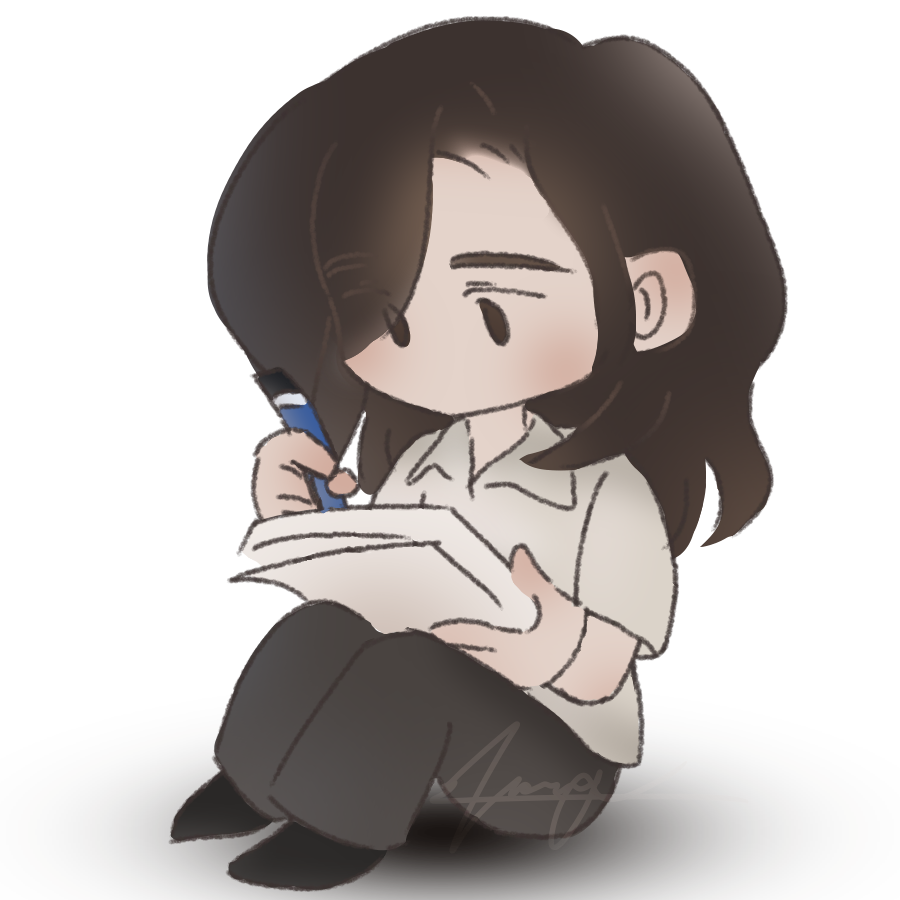
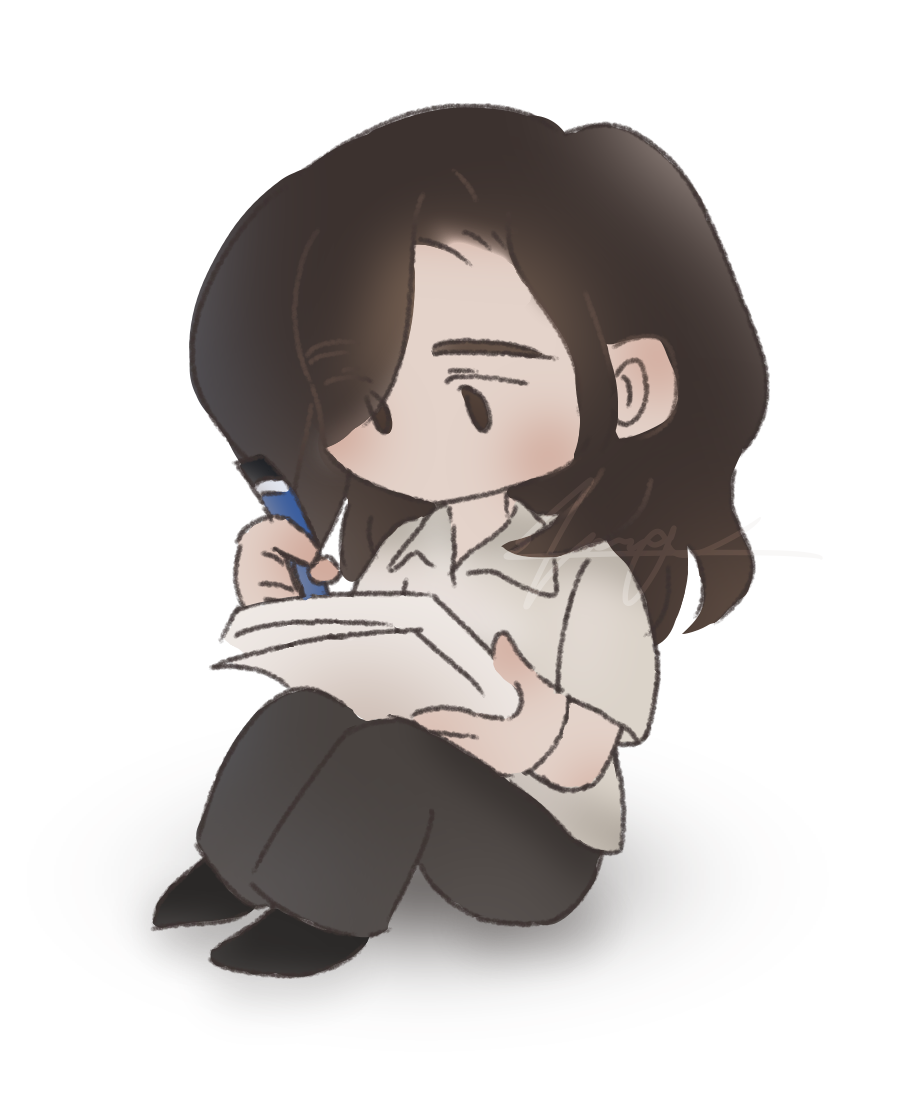
0926.26_Drawings Update

Changed region(s): [[0.1244, 0.0, 0.9022, 1.0]]

diff --git a/painting.html b/painting.html
@@ -3,7 +3,7 @@
 
 <head>
         <meta charset="UTF-8">
-        <title>默文的部落格</title>
+        <title>我的部落格</title>
         <link rel="stylesheet" href="style.css">
 </head>
 
@@ -23,8 +23,8 @@
 
         <ul class="dropdown-menu">
             <li><a href="painting.html">畫畫</a></li>
-            <li><a href="gaming.html">遊戲</a></li>
-            <li><a href="my_fiction.html">寫小說</a></li>
+            <li><a href="reading.html">閱讀專欄</a></li>
+            <li><a href="my_fiction.html">小說</a></li>
         </ul>
 
     <li><a href="diary.html">生活日誌</a></li>
@@ -32,15 +32,65 @@
     </nav>
 
     <div class="main-container">
-        <div class="text-content">
-        <h1>我有很多塗鴉!</h1>
-        <p>我非常喜歡畫畫，這裡會收錄一些被我挑選過、值得讓我留下來的作品。</p>
+        <!-- 這是你的畫廊區塊 -->
+        <div class="gallery-grid">
+            <!-- 每一張圖都加上 polaroid 類別，以及防右鍵/拖曳屬性 -->
+            <img src="pictures\sunflower_08182026.png" alt="畫作1" class="polaroid" oncontextmenu="return false;" draggable="false">
+            <img src="pictures\Your Glaze.png" alt="畫作2" class="polaroid" oncontextmenu="return false;" draggable="false">
+            <img src="pictures\Chen_2025.3.20.png" alt="畫作3" class="polaroid" oncontextmenu="return false;" draggable="false">
+            <img src="pictures\banner.png" alt="畫作4" class="polaroid" oncontextmenu="return false;" draggable="false">
+            <img src="pictures\MW12.png" alt="畫作5" class="polaroid" oncontextmenu="return false;" draggable="false">
+            <img src="pictures\ghrr.png" alt="畫作6" class="polaroid" oncontextmenu="return false;" draggable="false">
+            <img src="pictures\city of tears.png" alt="畫作7" class="polaroid" oncontextmenu="return false;" draggable="false">
+            <img src="pictures\sailor moon redraw challange 20210925.png" alt="畫作8" class="polaroid" oncontextmenu="return false;" draggable="false">
+            <img src="pictures\Practice0001.png" alt="畫作9" class="polaroid" oncontextmenu="return false;" draggable="false">
+            <img src="pictures\blue_eyes.png" alt="畫作10" class="polaroid" oncontextmenu="return false;" draggable="false">
+            <img src="pictures\blue_eyes(f)20240215.png" alt="畫作11" class="polaroid" oncontextmenu="return false;" draggable="false">
+            <img src="pictures\gura(hbd davi)01292024.png" alt="畫作12" class="polaroid" oncontextmenu="return false;" draggable="false">
+            <img src="pictures\me0003.png" alt="畫作13" class="polaroid" oncontextmenu="return false;" draggable="false">
+            <img src="pictures\jojo_Kakyoin.png" alt="畫作14" class="polaroid" oncontextmenu="return false;" draggable="false">
+            <img src="pictures\Amenor01.png" alt="畫作15" class="polaroid" oncontextmenu="return false;" draggable="false">
+            <img src="pictures\c.png" alt="畫作16" class="polaroid" oncontextmenu="return false;" draggable="false">
         </div>
     </div>
+
+    <!-- 這是點擊後才會跑出來的「放大預覽區 (Lightbox)」 -->
+    <div id="lightbox" class="lightbox">
+        <span class="close-btn">&times;</span>
+        <img id="lightbox-img" src="" alt="放大預覽" oncontextmenu="return false;" draggable="false">
+    </div>
+
+    <!-- 這一小段 JavaScript 負責控制點擊放大的魔法 -->
+    <script>
+        const lightbox = document.getElementById('lightbox');
+        const lightboxImg = document.getElementById('lightbox-img');
+        const images = document.querySelectorAll('.polaroid');
+        const closeBtn = document.querySelector('.close-btn');
+
+        // 當點擊小圖時，打開黑底背景並將放大的圖換成該小圖
+        images.forEach(img => {
+            img.addEventListener('click', function() {
+                lightbox.style.display = 'flex';
+                lightboxImg.src = this.src;
+            });
+        });
+
+        // 點擊右上角叉叉，關閉預覽
+        closeBtn.addEventListener('click', function() {
+            lightbox.style.display = 'none';
+        });
+
+        // 點擊黑色背景任何一處，也可以關閉預覽
+        lightbox.addEventListener('click', function(e) {
+            if (e.target !== lightboxImg) {
+                lightbox.style.display = 'none';
+            }
+        });
+    </script>
 </body>
 
 <footer>
-        <p>版權所有 &copy; 2026 默文</p>
+        <p>版權所有 &copy; 2026</p>
 </footer>
 
 </html>

diff --git a/style.css b/style.css
@@ -3,7 +3,7 @@
 body {
     margin: 0;
     padding: 0;
-    background-image:url(pictues\background.png); /* 放上你喜歡的背景圖 */
+    background-image:url(pictures/background.png); /* 放上你喜歡的背景圖 */
     background-size: cover; /* 讓背景圖填滿整個螢幕 */
     background-attachment: fixed; /* (選擇性) 讓背景圖固定，滑動網頁時只有中間區塊會動，很有質感！ */
     background-color: #f1efee;
@@ -30,6 +30,16 @@ h1 {
     font-family: "Noto Serif CJK TC", Arial, sans-serif;
     font-weight: bold;
   }
+
+h3 {
+  text-align: left;
+  color: #af583e;
+  font-size: 30px;
+  padding: 5px 0;
+  font-family: "Noto Serif CJK TC", Arial, sans-serif;
+  font-weight: bold;
+}
+
 
   /* 導覽列外框設定 */
 .sticky-navbar {
@@ -92,8 +102,8 @@ h1 {
 
 .dropdown-menu li a {
   display: block; /* 讓整個選項都可以點擊 */
-  color: white;
-  padding: 5px 15px;
+  color: rgb(207, 198, 198);
+  padding: 10px 15px;
   border-bottom: 1px solid #978a6e; /* 每個選項之間的間距 */
   text-decoration: none;
   font-family: "Noto Sans CJK TC", Arial, sans-serif;
@@ -215,3 +225,85 @@ h1 {
     object-fit: cover; /* 保持圖片比例，填滿容器 */
 }
 
+.under-development {
+    display: block;
+    margin: 10px auto; /* 置中圖片 */
+    max-width: 100%; /* 確保圖片不會超過容器寬度 */
+    height: auto; /* 保持圖片比例 */
+}
+
+.writing-down {
+    display: block;
+    margin: 10px auto; /* 置中圖片 */
+    max-width: 100%; /* 確保圖片不會超過容器寬度 */
+    height: auto; /* 保持圖片比例 */
+}
+
+/* =========================================
+   畫廊網格：處理一排 2~3 張的排版
+========================================= */
+.gallery-grid {
+    display: grid;
+    /* 這個魔法會自動幫你排版：螢幕大時一排 3 張，螢幕小時自動變成一排 1~2 張 */
+    grid-template-columns: repeat(auto-fit, minmax(250px, 1fr));
+    gap: 30px; /* 圖片之間的間距 */
+    padding: 20px;
+}
+
+/* =========================================
+   拍立得風格照片
+========================================= */
+.polaroid {
+    width: 100%;
+    background-color: white; /* 拍立得的白色底 */
+    padding: 10px 10px 15px 10px; /* 製造出白框效果，下方稍微寬一點更像拍立得 */
+    box-shadow: 0 4px 8px rgba(0, 0, 0, 0.2); /* 加上一點陰影看起來更立體 */
+    cursor: pointer; /* 滑鼠移過去變成手指圖案，提示可以點擊 */
+    transition: transform 0.2s; /* 微微放大的動畫時間 */
+
+    /* 避免圖片被反白選取 */
+    user-select: none;
+    -webkit-user-select: none;
+}
+
+/* 滑鼠碰到小圖時，微微放大互動感 */
+.polaroid:hover {
+    transform: scale(1.03);
+}
+
+/* =========================================
+   點擊後的放大預覽區塊 (Lightbox)
+========================================= */
+.lightbox {
+    display: none; /* 平常先隱藏起來 */
+    position: fixed; /* 固定在螢幕畫面上 */
+    z-index: 9999; /* 圖層拉到最高，蓋住所有東西 */
+    left: 0;
+    top: 0;
+    width: 100%;
+    height: 100%;
+    background-color: rgba(0, 0, 0, 0.85); /* 變暗的半透明黑底 */
+    align-items: center; /* 讓圖片垂直置中 */
+    justify-content: center; /* 讓圖片水平置中 */
+}
+
+/* 放大預覽區裡面的大圖片（一樣套用白框） */
+.lightbox img {
+    max-width: 90%;
+    max-height: 85vh; /* 確保不管多大都不會超過螢幕高度 */
+    background-color: white;
+    padding: 15px; /* 大圖的白框 */
+    box-shadow: 0 0 20px rgba(0,0,0,0.8);
+}
+
+/* 關閉按鈕 (X) */
+.close-btn {
+    position: absolute;
+    top: 20px;
+    right: 40px;
+    color: white;
+    font-size: 50px;
+    font-weight: bold;
+    cursor: pointer;
+    user-select: none;
+}

diff --git a/main.html b/main.html
@@ -3,7 +3,7 @@
 
 <head>
         <meta charset="UTF-8">
-        <title>默文的部落格</title>
+        <title>凡林的部落格</title>
         <link rel="stylesheet" href="style.css">
 </head>
 <body>
@@ -22,8 +22,8 @@
         <a href="#">喜好專欄</a>
         <ul class="dropdown-menu">
             <li><a href="painting.html">畫畫</a></li>
-            <li><a href="gaming.html">遊戲</a></li>
-            <li><a href="my_fiction.html">寫小說</a></li>
+            <li><a href="reading.html">閱讀專欄</a></li>
+            <li><a href="my_fiction.html">小說</a></li>
         </ul>
 
     <li><a href="diary.html">生活日誌</a></li>
@@ -45,16 +45,20 @@
         </div>
 
         <div class="text-content">
+
         <h1>歡迎來到我的個人網站！</h1>
-        <p>嗨！我是默文!會有這個部落格生出來的原因，<br>
-            是因為我想創建一個個人的部落格，整理我對很多事情的想法跟紀錄。</p>
-        </div>
+        <p>嗨！我是凡林!我想擁有一個個人的部落格，把自己想記錄的生活趣事
+        和想法記錄在一個專屬於自己的空間裡。於是乎就有這個自己的網站誕生了。</p>
+
+        <h3>網站處於開發階段中...暫時沒有任何值得分享的內容。</h3>
+        <img src="pictures\writing_down.png" alt="Writing Down" class="writing-down" width="600" height="750">
+    </div>
 
   </div>
 </div>
 </body>
 <footer>
-        <p>版權所有 &copy; 2026 默文</p>
+        <p>&copy; 2026 默文</p>
 </footer>
 
 </html>

diff --git a/about.html b/about.html
@@ -23,8 +23,8 @@
 
         <ul class="dropdown-menu">
             <li><a href="painting.html">畫畫</a></li>
-            <li><a href="gaming.html">遊戲</a></li>
-            <li><a href="my_fiction.html">寫小說</a></li>
+            <li><a href="reading.html">閱讀專欄</a></li>
+            <li><a href="my_fiction.html">小說</a></li>
         </ul>
 
     <li><a href="diary.html">生活日誌</a></li>
@@ -46,10 +46,9 @@
         </div>
 
         <div class="text-content">
-        <h1>關於默文</h1>
-        <p>我是一個自學畫畫的人，普通的高中畢業生，不過我還在尋找自己的志向當中。
-        <br>我從自己原本充滿壓力的原生家庭出走，想知道自己如果可以有完全屬於自己的生活與時間，
-        我能不能有辦法，不會再因為外界的期待，無論是家庭、學校、社會，而迷失自己真正想做的事。</p>
+        <h1>關於我</h1>
+        <p>我是一個自學畫畫的人，還在尋找自己的志向當中。<p></p>
+
         </div>
 
   </div>

diff --git a/my_fiction.html b/my_fiction.html
@@ -23,8 +23,8 @@
 
     <ul class="dropdown-menu">
         <li><a href="painting.html">畫畫</a></li>
-        <li><a href="gaming.html">遊戲</a></li>
-        <li><a href="my_fiction.html">寫小說</a></li>
+        <li><a href="reading.html">閱讀專欄</a></li>
+        <li><a href="my_fiction.html">小說</a></li>
     </ul>
 
     <li><a href="diary.html">生活日誌</a></li>
@@ -33,11 +33,9 @@
 
     <div class="main-container">
         <div class="text-content">
-        <h1>我有自己在寫的小說...</h1>
-        <p>正在撰寫階段，還有很多劇情情節是等著我在日常生活中慢慢去摸索的...!</p>
+        <h1>網頁仍處於開發階段喔!</h1>
+        <img src="pictures\under_development.png" alt="under development" class="under-development" width="600" height="750">
         </div>
-
-        <img src="pictures\writing_down.png" alt="Writing Down" class="writing-down" width="600" height="600">
     </div>
 </body>
 

diff --git a/reading.html b/reading.html
@@ -23,8 +23,8 @@
 
         <ul class="dropdown-menu">
             <li><a href="painting.html">畫畫</a></li>
-            <li><a href="gaming.html">遊戲</a></li>
-            <li><a href="my_fiction.html">寫小說</a></li>
+            <li><a href="reading.html">閱讀專欄</a></li>
+            <li><a href="my_fiction.html">小說</a></li>
         </ul>
 
     <li><a href="diary.html">生活日誌</a></li>
@@ -33,8 +33,8 @@
 
     <div class="main-container">
         <div class="text-content">
-        <h1>這裡是遊戲專欄!</h1>
-        <p>我有很多玩過的遊戲心得與想法都想記錄在這裡。</p>
+        <h1>網頁仍處於開發階段喔!</h1>
+        <img src="pictures\under_development.png" alt="under development" class="under-development" width="600" height="750">
         </div>
     </div>
 </body>

diff --git a/diary.html b/diary.html
@@ -23,8 +23,8 @@
 
         <ul class="dropdown-menu">
             <li><a href="painting.html">畫畫</a></li>
-            <li><a href="gaming.html">遊戲</a></li>
-            <li><a href="my_fiction.html">寫小說</a></li>
+            <li><a href="reading.html">閱讀專欄</a></li>
+            <li><a href="my_fiction.html">小說</a></li>
         </ul>
 
     <li><a href="diary.html">生活日誌</a></li>
@@ -33,7 +33,8 @@
     </nav>
     <div class="main-container">
         <div class="text-content">
-        <h1>更新中...</h1>
+        <h1>網頁仍處於開發階段喔!</h1>
+        <img src="pictures\under_development.png" alt="under development" class="under-development" width="600" height="750">
         </div>
     </div>
 </body>
